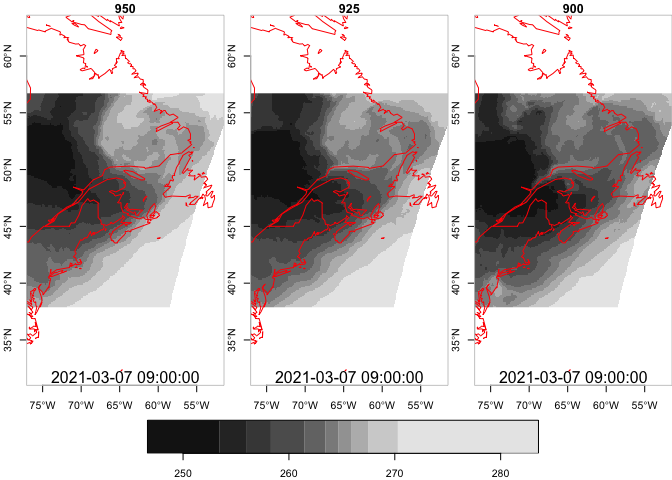
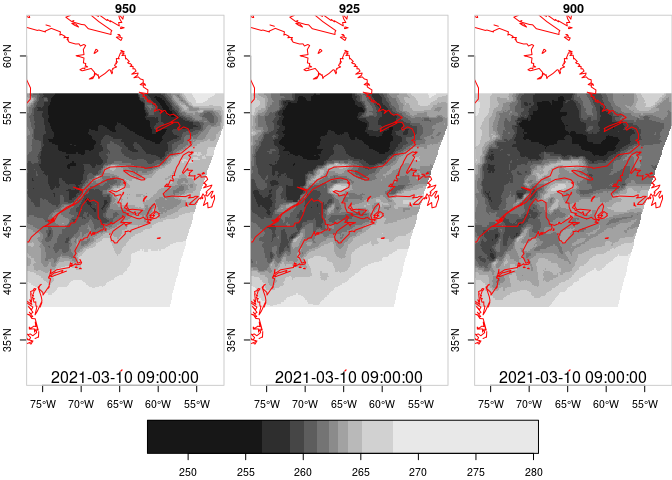
preserve degenerate dimensions, annotate get_var

diff --git a/README.md b/README.md
@@ -8,12 +8,12 @@ forecast models.
 
 ## Requirements
 
--   [R v4+](https://www.r-project.org/)
--   [rlang](https://CRAN.R-project.org/package=rlang)
--   [dplyr](https://CRAN.R-project.org/package=dplyr)
--   [sf](https://CRAN.R-project.org/package=sf)
--   [stars](https://CRAN.R-project.org/package=stars)
--   [ncdf4](https://CRAN.R-project.org/package=ncdf4)
+  - [R v4+](https://www.r-project.org/)
+  - [rlang](https://CRAN.R-project.org/package=rlang)
+  - [dplyr](https://CRAN.R-project.org/package=dplyr)
+  - [sf](https://CRAN.R-project.org/package=sf)
+  - [stars](https://CRAN.R-project.org/package=stars)
+  - [ncdf4](https://CRAN.R-project.org/package=ncdf4)
 
 ## Installation
 
@@ -34,7 +34,7 @@ uri <- grads_uri(date = Sys.Date()-1, product = "nam_00z")
 uri
 ```
 
-    ## [1] "http://nomads.ncep.noaa.gov:80/dods/nam/nam20210304/nam_00z"
+    ## [1] "http://nomads.ncep.noaa.gov:80/dods/nam/nam20210307/nam_00z"
 
 ### Get a handle to a resource
 
@@ -69,21 +69,21 @@ times <- get_time(x)
 times
 ```
 
-    ##  [1] "2021-03-06 00:00:00 UTC" "2021-03-06 03:00:00 UTC"
-    ##  [3] "2021-03-06 06:00:00 UTC" "2021-03-06 09:00:00 UTC"
-    ##  [5] "2021-03-06 12:00:00 UTC" "2021-03-06 15:00:00 UTC"
-    ##  [7] "2021-03-06 18:00:00 UTC" "2021-03-06 21:00:00 UTC"
-    ##  [9] "2021-03-07 00:00:00 UTC" "2021-03-07 03:00:00 UTC"
-    ## [11] "2021-03-07 06:00:00 UTC" "2021-03-07 09:00:00 UTC"
-    ## [13] "2021-03-07 12:00:00 UTC" "2021-03-07 15:00:00 UTC"
-    ## [15] "2021-03-07 18:00:00 UTC" "2021-03-07 21:00:00 UTC"
-    ## [17] "2021-03-08 00:00:00 UTC" "2021-03-08 03:00:00 UTC"
-    ## [19] "2021-03-08 06:00:00 UTC" "2021-03-08 09:00:00 UTC"
-    ## [21] "2021-03-08 12:00:00 UTC" "2021-03-08 15:00:00 UTC"
-    ## [23] "2021-03-08 18:00:00 UTC" "2021-03-08 21:00:00 UTC"
-    ## [25] "2021-03-09 00:00:00 UTC" "2021-03-09 03:00:00 UTC"
-    ## [27] "2021-03-09 06:00:00 UTC" "2021-03-09 09:00:00 UTC"
-    ## [29] "2021-03-09 12:00:00 UTC"
+    ##  [1] "2021-03-09 00:00:00 UTC" "2021-03-09 03:00:00 UTC"
+    ##  [3] "2021-03-09 06:00:00 UTC" "2021-03-09 09:00:00 UTC"
+    ##  [5] "2021-03-09 12:00:00 UTC" "2021-03-09 15:00:00 UTC"
+    ##  [7] "2021-03-09 18:00:00 UTC" "2021-03-09 21:00:00 UTC"
+    ##  [9] "2021-03-10 00:00:00 UTC" "2021-03-10 03:00:00 UTC"
+    ## [11] "2021-03-10 06:00:00 UTC" "2021-03-10 09:00:00 UTC"
+    ## [13] "2021-03-10 12:00:00 UTC" "2021-03-10 15:00:00 UTC"
+    ## [15] "2021-03-10 18:00:00 UTC" "2021-03-10 21:00:00 UTC"
+    ## [17] "2021-03-11 00:00:00 UTC" "2021-03-11 03:00:00 UTC"
+    ## [19] "2021-03-11 06:00:00 UTC" "2021-03-11 09:00:00 UTC"
+    ## [21] "2021-03-11 12:00:00 UTC" "2021-03-11 15:00:00 UTC"
+    ## [23] "2021-03-11 18:00:00 UTC" "2021-03-11 21:00:00 UTC"
+    ## [25] "2021-03-12 00:00:00 UTC" "2021-03-12 03:00:00 UTC"
+    ## [27] "2021-03-12 06:00:00 UTC" "2021-03-12 09:00:00 UTC"
+    ## [29] "2021-03-12 12:00:00 UTC"
 
 ``` r
 levels <- get_lev(x)
@@ -169,8 +169,8 @@ str(a)
 
 The `get_var` function is a convenient wrapper around the
 `get_var_array` function. Users specify the slab limits with ‘real
-world’ units, and a [`stars`](https://r-spatial.github.io/stars/) object
-is returned (although returning an array is an option).
+world’ units, and a [`stars`](https://r-spatial.github.io/stars/)
+object is returned (although returning an array is an option).
 
 ``` r
 s <- nam218grads::get_var(x, "tmpprs",
@@ -183,19 +183,19 @@ s
     ## stars object with 4 dimensions and 1 attribute
     ## attribute(s), summary of first 1e+05 cells:
     ##     tmpprs      
-    ##  Min.   :244.4  
-    ##  1st Qu.:259.0  
-    ##  Median :265.1  
-    ##  Mean   :265.1  
-    ##  3rd Qu.:271.9  
-    ##  Max.   :283.7  
+    ##  Min.   :248.1  
+    ##  1st Qu.:260.9  
+    ##  Median :263.7  
+    ##  Mean   :263.6  
+    ##  3rd Qu.:266.0  
+    ##  Max.   :281.8  
     ##  NA's   :11260  
     ## dimension(s):
     ##      from  to         offset     delta  refsys point values x/y
     ## x       1 226       -77.0816  0.113384  WGS 84    NA   NULL [x]
     ## y       1 170        56.7171 -0.110827  WGS 84    NA   NULL [y]
     ## z       1   3            950       -25      NA    NA   NULL    
-    ## time    1  12 2021-03-06 UTC   3 hours POSIXct    NA   NULL
+    ## time    1  12 2021-03-09 UTC   3 hours POSIXct    NA   NULL
 
 You can also retrieve multiple variables. Note in the example below that
 `ugrd10m` and `vgrd10m` (wind component speeds at 10m above surface) do
@@ -210,19 +210,19 @@ winds
 
     ## stars object with 3 dimensions and 2 attributes
     ## attribute(s):
-    ##     ugrd10m           vgrd10m       
-    ##  Min.   :-17.983   Min.   :-13.765  
-    ##  1st Qu.:  3.370   1st Qu.: -4.543  
-    ##  Median :  5.866   Median : -2.550  
-    ##  Mean   :  4.605   Mean   : -1.180  
-    ##  3rd Qu.:  8.369   3rd Qu.:  1.776  
-    ##  Max.   : 21.627   Max.   : 14.740  
-    ##  NA's   :14664     NA's   :14664    
+    ##     ugrd10m          vgrd10m       
+    ##  Min.   :-4.802   Min.   :-10.953  
+    ##  1st Qu.: 2.641   1st Qu.: -2.560  
+    ##  Median : 3.813   Median : -1.062  
+    ##  Mean   : 4.019   Mean   : -0.320  
+    ##  3rd Qu.: 5.056   3rd Qu.:  1.710  
+    ##  Max.   :15.156   Max.   : 11.797  
+    ##  NA's   :14664    NA's   :14664    
     ## dimension(s):
     ##      from  to                  offset     delta  refsys point values x/y
     ## x       1 226                -77.0816  0.113384  WGS 84    NA   NULL [x]
     ## y       1 170                 56.7171 -0.110827  WGS 84    NA   NULL [y]
-    ## time    1   3 2021-03-06 12:00:00 UTC   3 hours POSIXct    NA   NULL
+    ## time    1   3 2021-03-09 12:00:00 UTC   3 hours POSIXct    NA   NULL
 
 #### Close the handle
 
